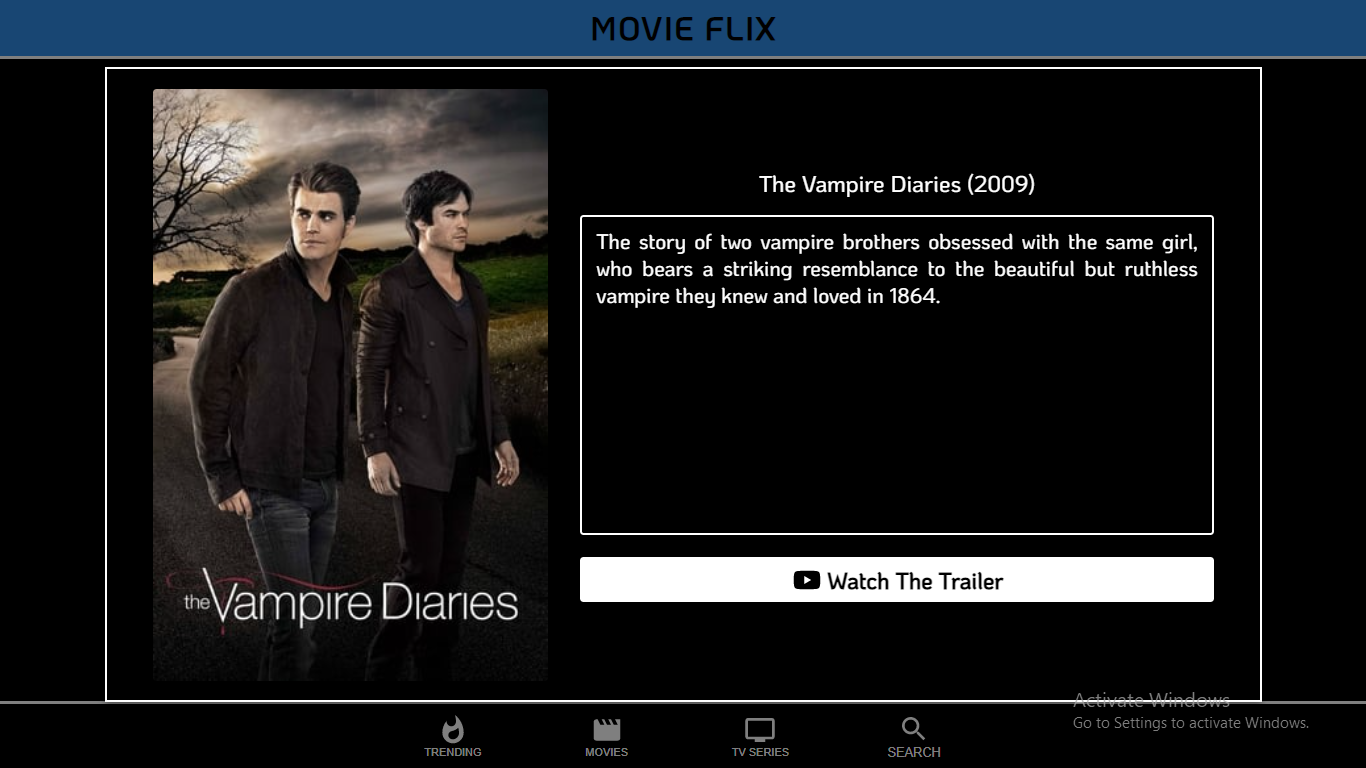
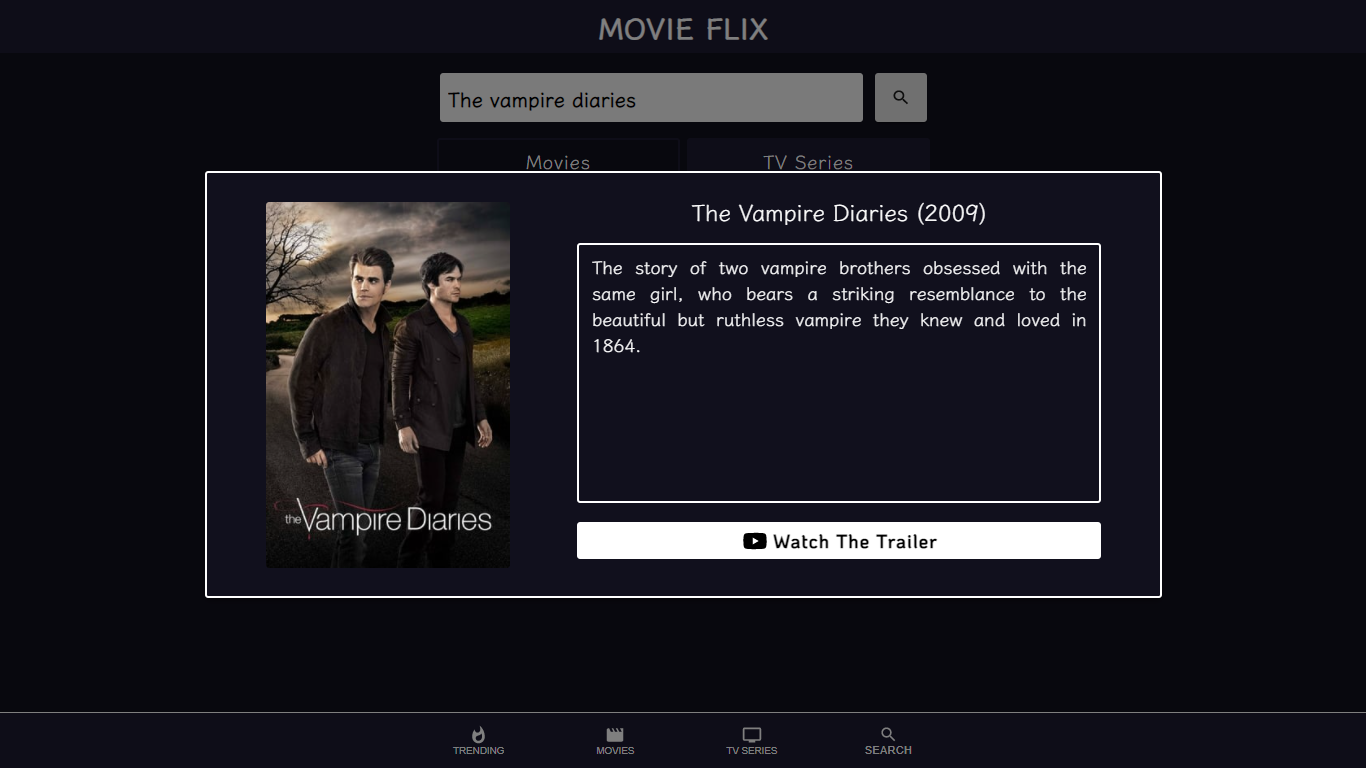
fixed media queries

diff --git a/src/components/Search/Search.js b/src/components/Search/Search.js
@@ -1,6 +1,5 @@
 import React from 'react';
 import { useState, useEffect } from 'react';
-import TextField from '@material-ui/core/TextField';
 import { Button, createMuiTheme, ThemeProvider } from '@material-ui/core';
 import SearchIcon from '@material-ui/icons/Search';
 import axios from 'axios';
@@ -52,14 +51,6 @@ const Search = () => {
         <>
             <ThemeProvider theme={darkTheme}>
                 <div className="Searchbar">
-                    {/* <TextField
-                        style={{ width: "50%" }}
-                        className="searchbox"
-                        label="Search"
-                        variant="filled"
-                        value={searchtext}
-                        onChange={(e) => setsearchtext(e.target.value)}
-                    /> */}
                     <input type="text" className='searchbox' onChange={(e) => setsearchtext(e.target.value)} />
                     <Button variant='contained' onClick={fetchsearch} style={{ marginLeft: "15px" }}><SearchIcon /></Button>
                 </div>

diff --git a/src/App.css b/src/App.css
@@ -11,8 +11,6 @@
 }
 
 body{
-    font-family: 'KoHo', sans-serif;
-    font-family: 'Work Sans', sans-serif;
     font-family: 'Klee One', cursive;
     margin: 0;
     padding: 0;
@@ -21,11 +19,6 @@ body{
 
 .app{
     min-height: 100vh;
-    background-color:black;
-    background-color:  #e91e63;
-    background-color: #5529dc;
-    background-color: #060822;
-    background-color: #0d1117;
     background-color: #11101d;
     color: white;
     padding: 65px 0px;

diff --git a/src/components/ContentModel/Contentmodel.css b/src/components/ContentModel/Contentmodel.css
@@ -12,7 +12,7 @@
 }
 
 .contentModel-width-class{
-    width: 100%;
+    width: 95%;
 }
 .content-about{
     display: flex;
@@ -38,7 +38,7 @@
 
 .content-description{
     display: flex;
-    height: 280px;
+    height: 200px;
     overflow-y: scroll;
     padding: 10px 15px;
     scrollbar-width: thin;
